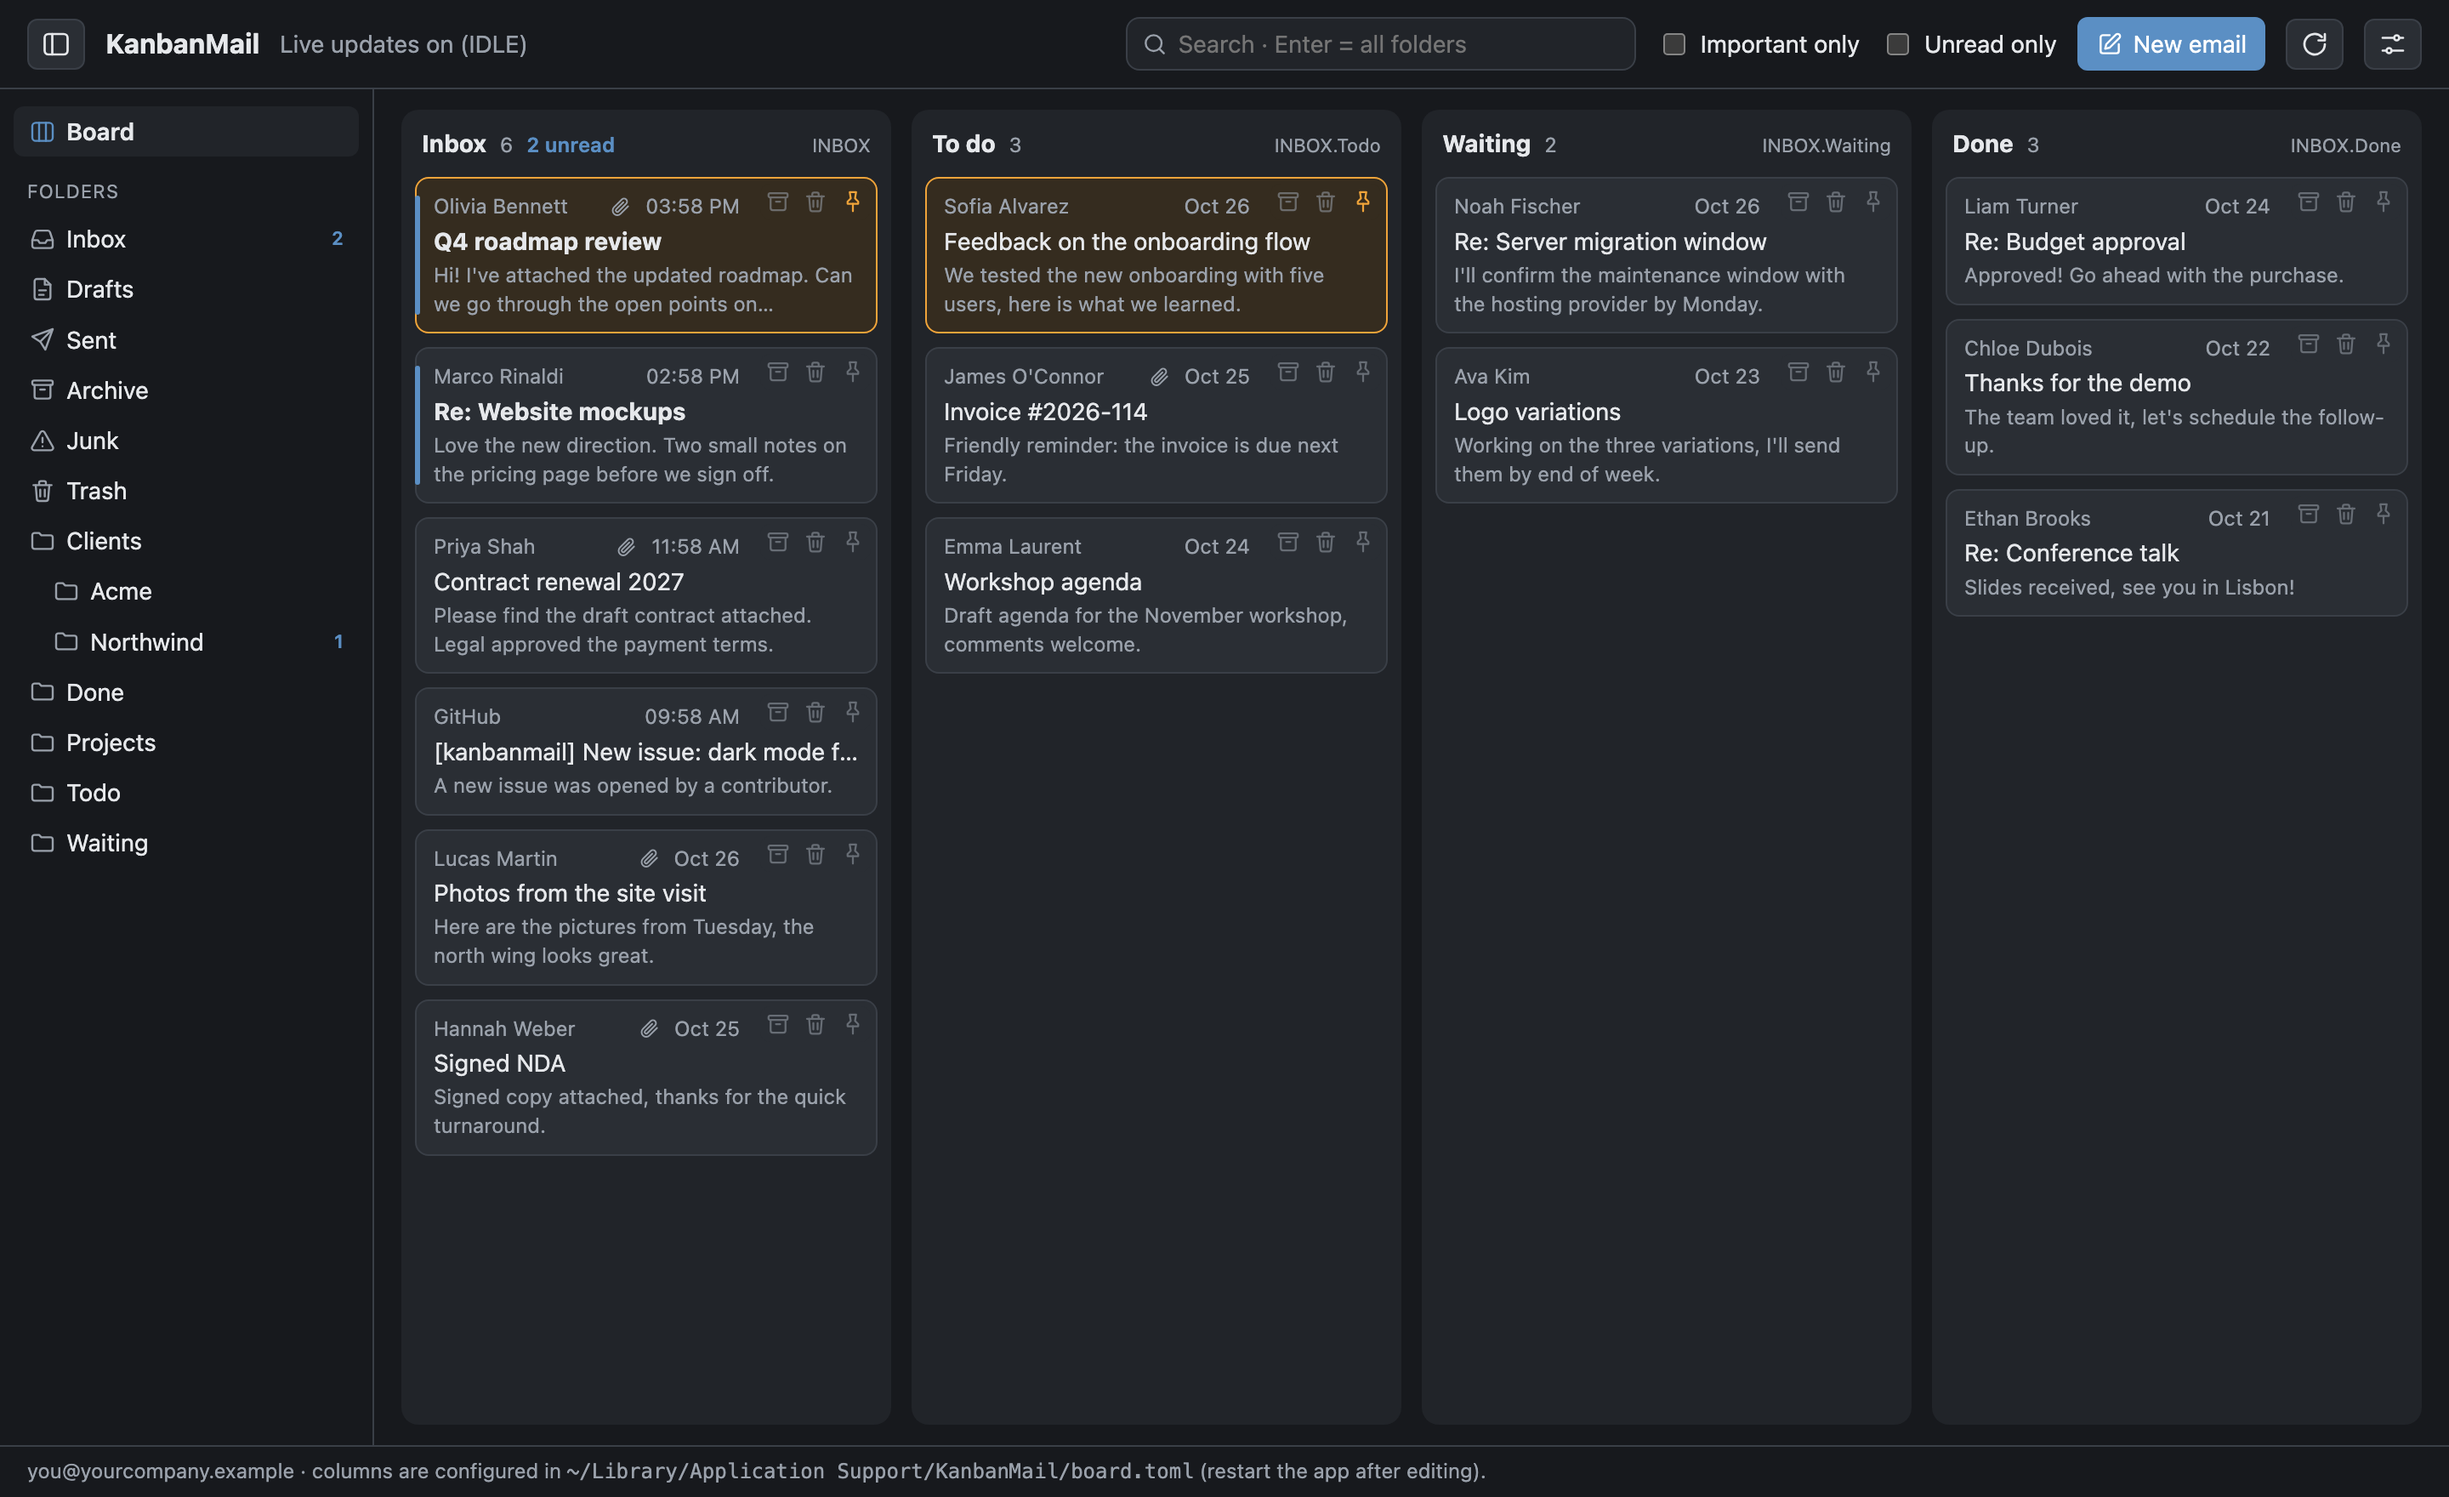
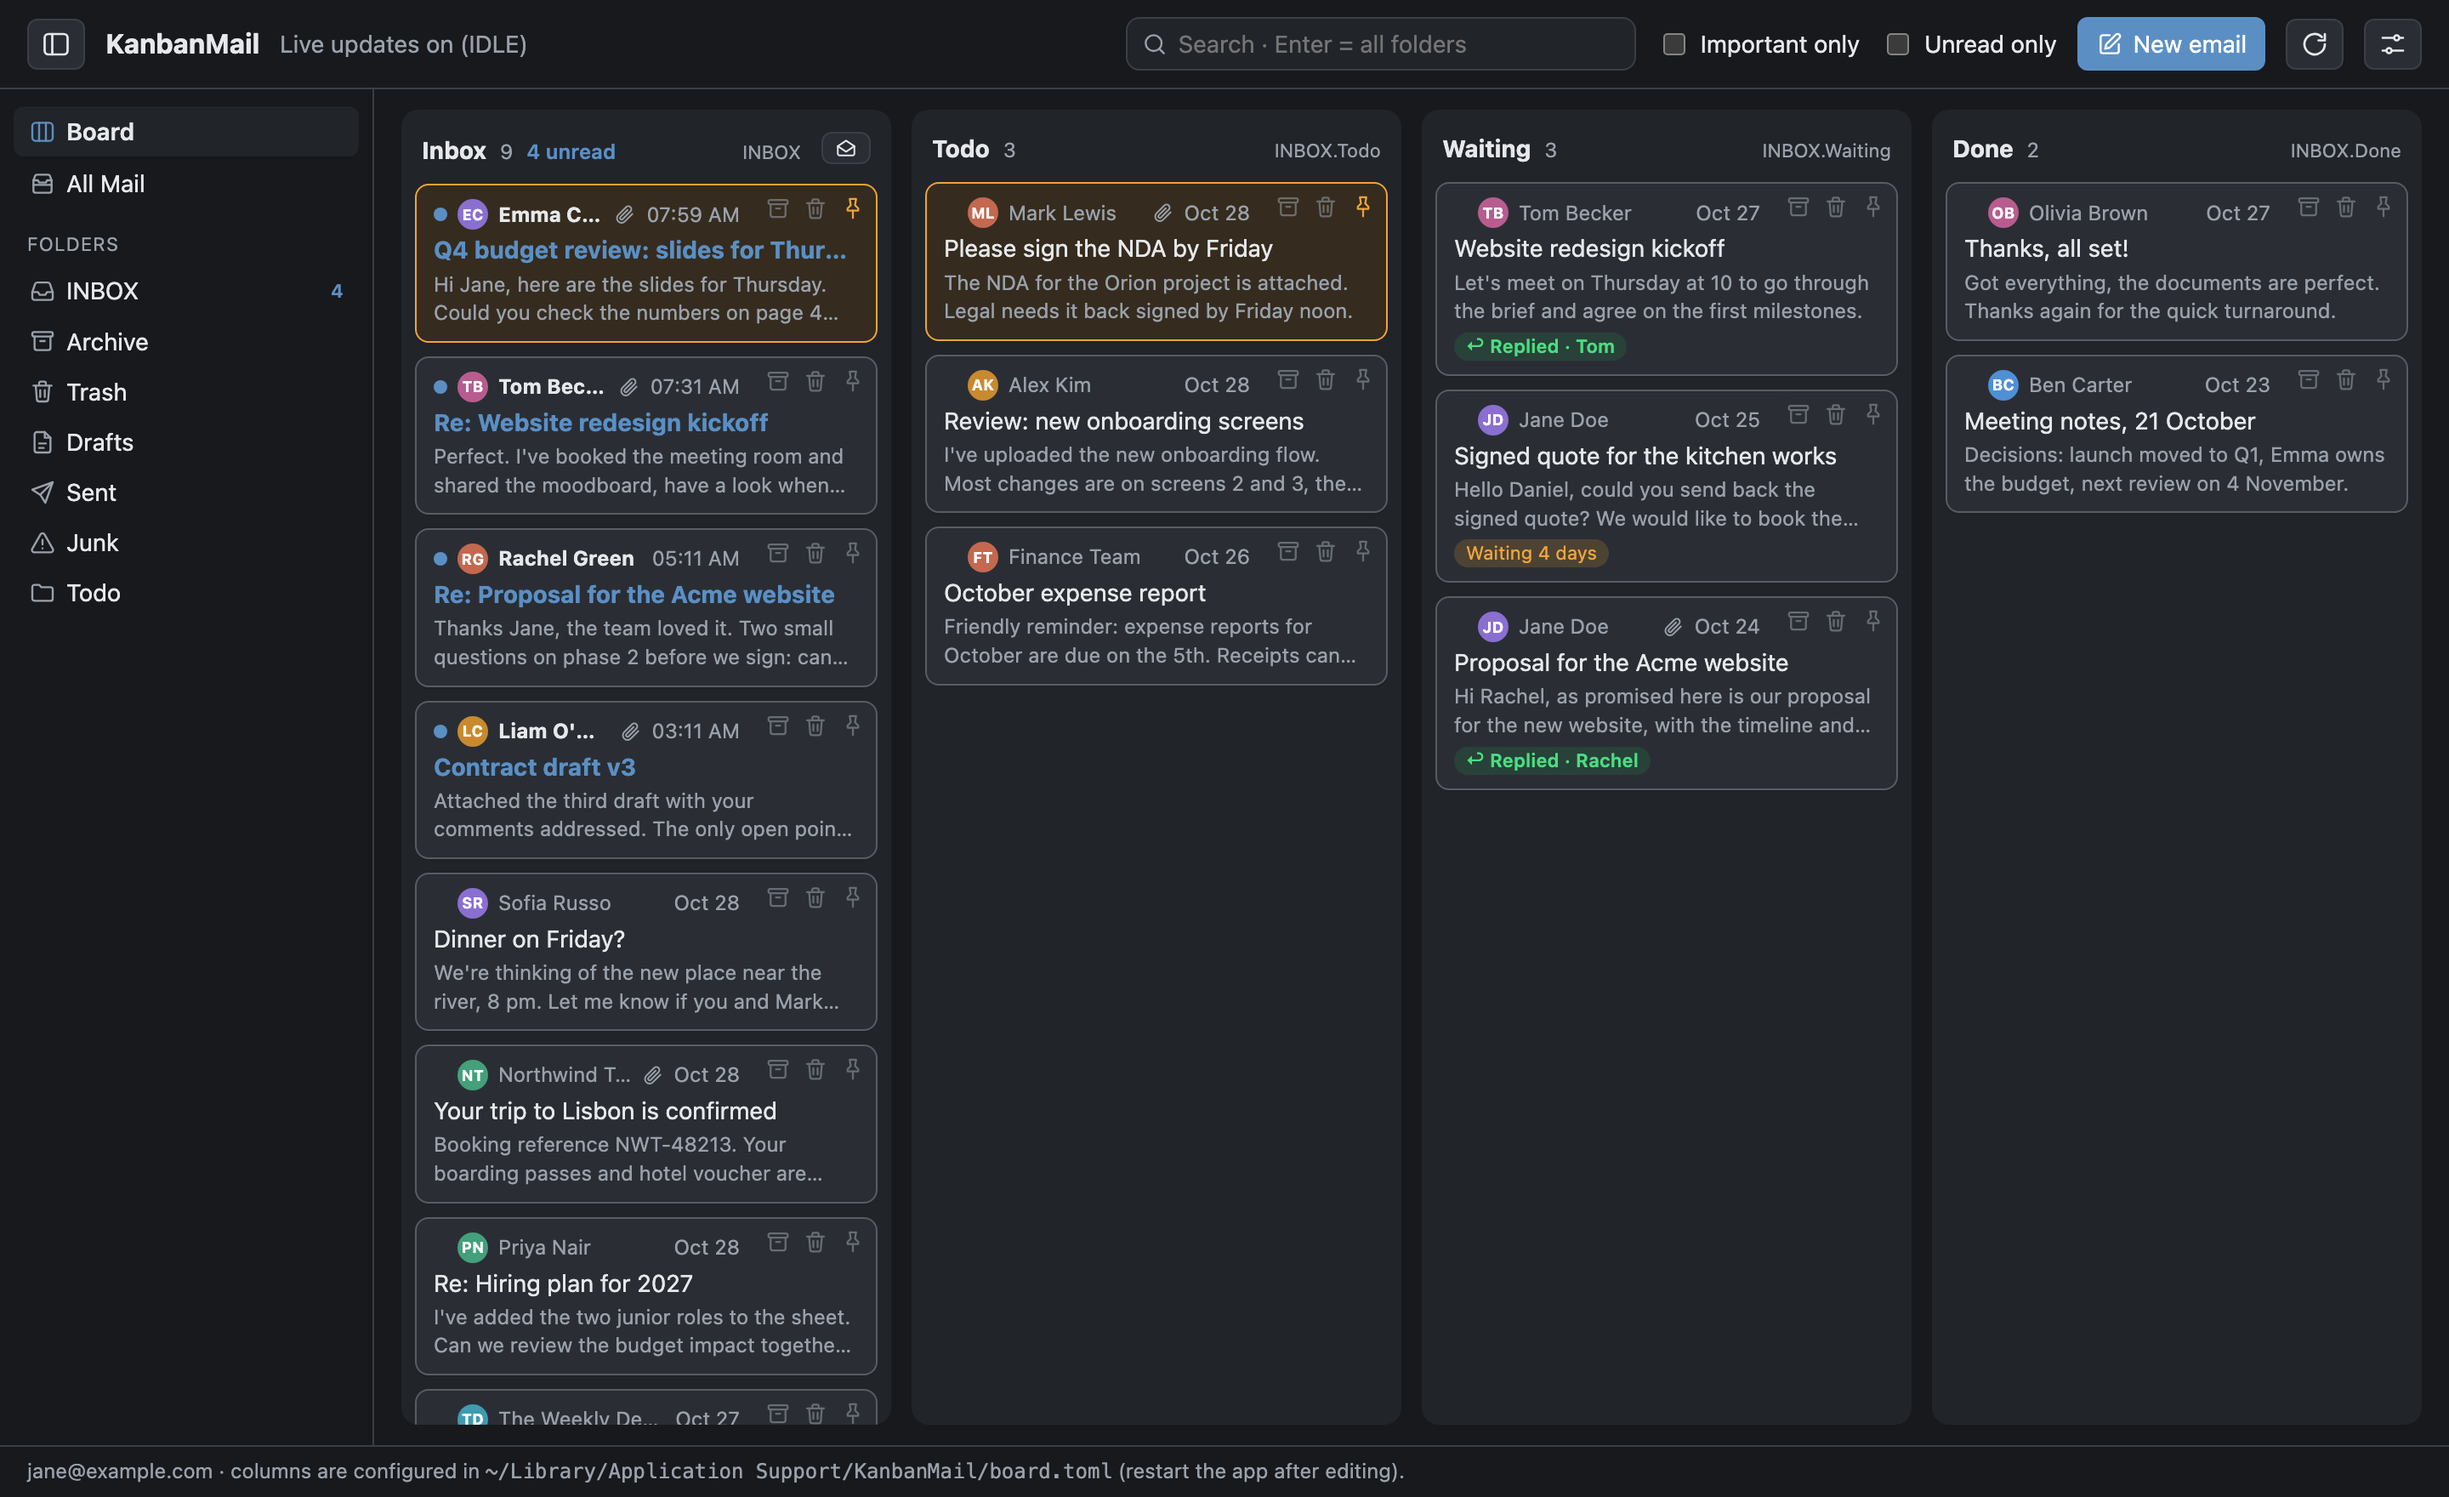
Release 1.2: instant start from the copy on this Mac, clearer cards
- At startup the board, folders and All Mail come straight from the local
  SQLite copy; the server is reached in the background.
- Background downloads use a connection of their own, so clicks never wait
  behind them.
- Cards stand apart with a thin contrasting edge and a small gap, on the
  board and in the folder view.
- New README screenshots (board, folder view, composer) with demo data.

diff --git a/app/ui/app.js b/app/ui/app.js
@@ -444,6 +444,7 @@ $("logout").addEventListener("click", async () => {
   $("settings").hidden = true;
   state.columns = [];
   state.cards = {};
+  state.fresh.clear();
   show("login");
 });
 
@@ -494,7 +495,22 @@ function showCachedBoard() {
   }
   setSyncStatus("Updating…");
   show("board-screen");
+  fillFromLocalCopy(columns.map((c) => c.folder));
   return true;
+}
+
+/// The cards kept in the copy on this Mac, shown while the server is reached.
+function fillFromLocalCopy(folders) {
+  for (const folder of folders) {
+    invoke("cached_column", { folder, limit: state.limits[folder] || state.defaultLimit })
+      .then((cached) => {
+        // Only until the server answers: its list is the fresher one.
+        if (!cached.length || state.fresh.has(folder)) return;
+        state.cards[folder] = cached;
+        renderCards(folder);
+      })
+      .catch(() => {});
+  }
 }
 
 function applySettingsState(settings) {
@@ -749,6 +765,7 @@ async function loadColumn(folder) {
   }
   try {
     state.cards[folder] = await invoke("load_column", { folder, limit: state.limits[folder] || null });
+    state.fresh.add(folder);
     renderCards(folder);
     if (state.columns.some((c) => c.folder === folder)) cacheSet("cards:" + folder, state.cards[folder].slice(0, 200));
     if (folder.toUpperCase() === "INBOX") {
@@ -776,6 +793,7 @@ listen("queue-flushed", () => {
 // ---------- new Inbox emails: rules and notifications ----------
 
 state.limits = {}; // folder -> how many emails to load ("Load more")
+state.fresh = new Set(); // folders already loaded from the server
 state.defaultLimit = 200;
 state.rules = [];
 state.notify = "important";
@@ -1561,17 +1579,22 @@ function scheduleFolderCounts() {
 // ---------- All Mail ----------
 
 async function loadAllMail() {
+  // The newest emails known on this Mac first, then the server's list.
+  const local = await invoke("cached_all_mail").catch(() => []);
+  const localCards = local
+    .filter((x) => !["trash", "junk", "drafts"].includes(folderKind(x.folder)))
+    .map((x) => ({ ...x.card, __folder: x.folder }));
+  if (localCards.length && !state.cards[ALL_KEY]?.length) {
+    state.cards[ALL_KEY] = localCards;
+    renderCards(ALL_KEY);
+  }
   try {
     const entries = await invoke("load_all_mail");
     state.cards[ALL_KEY] = entries.map((e) => ({ ...e.card, __folder: e.folder }));
     renderCards(ALL_KEY);
   } catch (e) {
     if (isOfflineError(e)) {
-      // The newest emails known on this Mac instead.
-      const local = await invoke("cached_all_mail").catch(() => []);
-      state.cards[ALL_KEY] = local
-        .filter((x) => !["trash", "junk", "drafts"].includes(folderKind(x.folder)))
-        .map((x) => ({ ...x.card, __folder: x.folder }));
+      state.cards[ALL_KEY] = localCards;
       renderCards(ALL_KEY);
       return goOffline();
     }

diff --git a/app/ui/style.css b/app/ui/style.css
@@ -262,6 +262,9 @@ button.primary { background: var(--accent); color: var(--accent-text); border-co
   user-select: none;
 }
 .card:hover { border-color: var(--accent); }
+/* A thin edge a little darker than the theme's borders, so cards stand apart. */
+:root { --card-edge: color-mix(in srgb, var(--border) 65%, var(--text) 35%); }
+.card { border-color: color-mix(in srgb, var(--border) 50%, var(--card-edge) 50%); box-shadow: 0 1px 1px rgb(0 0 0 / 0.06); }
 .card.dragging { opacity: 0.4; }
 .card.busy { opacity: 0.6; pointer-events: none; }
 .card.pinned { background: var(--pinned-bg); border-color: var(--pin); }
@@ -737,7 +740,7 @@ body.resizing { cursor: col-resize; user-select: none; }
 .reader-pane .placeholder .icon { width: 40px; height: 40px; opacity: 0.4; display: block; margin: 0 auto 8px; }
 .reader.in-pane { width: 100%; height: 100%; border-radius: 10px; }
 
-.cards.rows { gap: 2px; padding: 4px 6px 12px; }
+.cards.rows { gap: 4px; padding: 4px 6px 12px; }
 .cards.rows .card {
   display: grid;
   grid-template-columns: minmax(90px, 32%) 1fr auto auto;
@@ -745,9 +748,8 @@ body.resizing { cursor: col-resize; user-select: none; }
   gap: 10px;
   padding: 7px 10px 7px 12px;
   border-radius: 6px;
-  border-color: transparent;
 }
-.cards.rows .card:hover { border-color: var(--border); }
+.cards.rows .card:hover { border-color: var(--card-edge); }
 .cards.rows .card.selected { border-color: var(--accent); background: var(--drop); }
 .cards.rows .row-from { overflow: hidden; white-space: nowrap; min-width: 0; }
 .cards.rows .row-name { overflow: hidden; text-overflow: ellipsis; white-space: nowrap; min-width: 0; }

diff --git a/app/src-tauri/src/main.rs b/app/src-tauri/src/main.rs
@@ -283,7 +283,14 @@ async fn open_board(app: AppHandle, state: State<'_, AppState>) -> CmdResult<Boa
     tauri::async_runtime::spawn(poll_folders(app.clone(), state.generation.clone(), generation, polled));
     let mut prefetched: Vec<String> = vec!["INBOX".to_string()];
     prefetched.extend(columns.iter().map(|c| c.folder.clone()).filter(|f| !f.eq_ignore_ascii_case("INBOX")));
-    tauri::async_runtime::spawn(prefetch_bodies(app.clone(), state.generation.clone(), generation, prefetched));
+    tauri::async_runtime::spawn(prefetch_bodies(
+        app.clone(),
+        state.generation.clone(),
+        generation,
+        account.clone(),
+        password.clone(),
+        prefetched,
+    ));
     tauri::async_runtime::spawn(replay_loop(app.clone(), state.generation.clone(), generation));
 
     Ok(BoardInfo {
@@ -494,12 +501,21 @@ const PREFETCH_MAX_SIZE: u64 = 3 * 1024 * 1024;
 
 /// Downloads, a few at a time, the content of the newest emails of the Inbox
 /// and the board columns, so they open instantly (and offline). Keeps the
-/// local copy under the size chosen in the settings.
-async fn prefetch_bodies(app: AppHandle, current: Arc<AtomicU64>, generation: u64, folders: Vec<String>) {
+/// local copy under the size chosen in the settings. It uses a connection of
+/// its own, so the clicks never wait behind a slow download.
+async fn prefetch_bodies(
+    app: AppHandle,
+    current: Arc<AtomicU64>,
+    generation: u64,
+    account: Account,
+    password: String,
+    folders: Vec<String>,
+) {
     tokio::time::sleep(Duration::from_secs(8)).await;
+    let mut session: Option<Session> = None;
     loop {
         if current.load(Ordering::SeqCst) != generation {
-            return;
+            break;
         }
         let settings = Settings::load().unwrap_or_default();
         let state = app.state::<AppState>();
@@ -514,11 +530,16 @@ async fn prefetch_bodies(app: AppHandle, current: Arc<AtomicU64>, generation: u6
                 }
             }
             for (folder, uids) in by_folder {
-                let res: Result<_, String> = {
-                    let mut inner = state.inner.lock().await;
-                    with_retry!(inner, |s, _caps| imap::fetch_raws(s, &folder, &uids, PREFETCH_MAX_SIZE))
+                let mut s = match session.take() {
+                    Some(s) => s,
+                    None => match imap::connect(&account, &password).await {
+                        Ok(s) => s,
+                        Err(_) => break, // offline or slow: try again later
+                    },
                 };
-                let Ok(list) = res else { break }; // offline or slow: try again later
+                let fetch = imap::fetch_raws(&mut s, &folder, &uids, PREFETCH_MAX_SIZE);
+                let Ok(Ok(list)) = tokio::time::timeout(OPERATION_TIMEOUT, fetch).await else { break };
+                session = Some(s);
                 for (uid, raw, size) in list {
                     match raw {
                         Some(raw) => state.with_store(|st| st.put_raw(&folder, uid, &raw)),
@@ -530,7 +551,16 @@ async fn prefetch_bodies(app: AppHandle, current: Arc<AtomicU64>, generation: u6
             state.with_store(|st| st.evict(u64::from(settings.cache_max_mb) * 1024 * 1024));
         }
         // Quick rounds while there is something to download, then rest.
+        if downloaded == 0 {
+            // Nothing to do for a while: free the connection.
+            if let Some(mut s) = session.take() {
+                s.logout().await.ok();
+            }
+        }
         tokio::time::sleep(Duration::from_secs(if downloaded > 0 { 2 } else { 120 })).await;
+    }
+    if let Some(mut s) = session {
+        s.logout().await.ok();
     }
 }
 

diff --git a/README.md b/README.md
@@ -8,7 +8,9 @@ Written in Rust with [Tauri](https://tauri.app).
 
 ![The board: every column is an IMAP folder](docs/screenshot-board.png)
 
-![Reading an email with its conversation](docs/screenshot-reader.png)
+![Folder view: expandable conversations and the reading pane](docs/screenshot-folder.png)
+
+![Writing an email: recipients as draggable chips](docs/screenshot-compose.png)
 
 <sub>Screenshots taken with fictional demo data.</sub>
 
@@ -68,8 +70,11 @@ Written in Rust with [Tauri](https://tauri.app).
   readable and searchable; moving, archiving, deleting, pinning, read/unread
   and sending are kept in a queue and done, in order, as soon as the server can
   be reached again (the status line shows how many changes are waiting).
-- Instant start: the board of the last session is shown right away from a local
-  cache, then refreshed from the server.
+- Instant start: the board, the folders and All Mail are shown right away from
+  the copy on this Mac, while the connection to the server is made in the
+  background; new emails and changes then appear without reloading the lists.
+  Emails are downloaded in the background on a connection of their own, so
+  clicks never wait behind them.
 - Calendar invitations (.ics) are shown with date, time, place and organizer;
   answer Accept / Maybe / Decline (sent to the organizer) or add the event to
   your calendar app.
@@ -268,7 +273,8 @@ If the server supports IDLE, the app keeps one extra connection on the Inbox
 and is notified of changes right away (including those made by other clients).
 The other columns are checked every 60 seconds on the main connection. In
 total KanbanMail uses two connections, plus a short-lived one while searching
-or reading your sent emails.
+or reading your sent emails, and one while emails are being downloaded in the
+background (it is closed when there is nothing left to download).
 
 ## Reading safely
 
